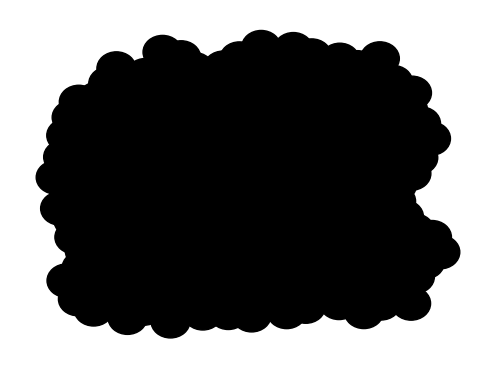
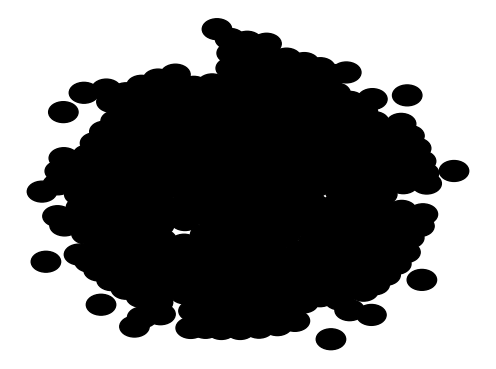
ICI MILO

diff --git a/Src/TestFolder/testTuringOptimisation.py b/Src/TestFolder/testTuringOptimisation.py
@@ -6,7 +6,7 @@ from Src.simulationController.topologyOptimizer import topologyOptimisation
 
 print("Début du test de l'extracteur des propriétés de l'essaim sur le chemin : ", os.getcwd())
 os.chdir("../..")
-S = topologyOptimisation("pile",nb=300,visible=True,time=2000)
+S = topologyOptimisation("pile",nb=100,visible=True,time=10000)
 
 
 def fitnessShapeIndex(w):
@@ -65,7 +65,16 @@ def computeOptization(func,iter):
     S.put_genotype(res[0])
     S.Swarm.controller.write_params(S.Swarm.controller.read_params())
 
-
+#pour faire de la rectanglitude, essayer avec plus de temps et des essaims plus petits
+def fitnessRectanglitude(w):
+    S.put_genotype(w)
+    S.computeSimulation()
+    S.Swarm.setRange(80)
+    #S.Swarm.shapeIndex()
+    rect = np.mean(S.Swarm.rectanglitude(seuil=0))
+    print("Pénalité de ",-rect**2)
+    #print("Précision : ",S.getPrecision())
+    return -rect**2
 
 if(__name__=="__main__"):
     w = S.extract_genotype()
@@ -74,7 +83,7 @@ if(__name__=="__main__"):
     S.computeSimulation()
     S.Swarm.calculerTuringSpots(seuil=4)
     print("Depart a : ", S.Swarm.nb_turing_spots)
-    res = cma.CMAEvolutionStrategy(w, 0.0001).optimize(fitnessTuringSpot, maxfun=500).result
+    res = cma.CMAEvolutionStrategy(w, 0.0001).optimize(fitnessRectanglitude, maxfun=500).result
     S.put_genotype(res[0])
     S.Swarm.controller.write_params(S.Swarm.controller.read_params())
 

diff --git a/Src/controllers/swarmDescriptor.py b/Src/controllers/swarmDescriptor.py
@@ -134,16 +134,20 @@ class swarmDescriptor:
         return multiClusterShapeIndex(show=False, distVoisin=self.controller.range)
 
 
-    def rectanglitude(self):
+    def rectanglitude(self, seuil = 0):
         self.clusteriser()
         topologyCalculs.fp = os.getcwd() + "/embedded_simulateurs/" + self.path + "/endstate.json"
+
+
+        """
         cpt = 0
-        C = clustersRectanglitude( distVoisin=self.controller.range)
+        C = clustersRectanglitude( distVoisin=self.controller.range, seuil = seuil)
         for i in C:
             if (len(self.clusters) > cpt):
                 self.clusters[cpt].rectanglitude = i
                 cpt = cpt + 1
-        return clustersRectanglitude(distVoisin=self.controller.range)
+        """
+        return clustersRectanglitude(distVoisin=self.controller.range, valueTresh = seuil)
 
     def SumshapeIndex(self):
 

diff --git a/embedded_simulateurs/morphogenesis/morphogenesis.c b/embedded_simulateurs/morphogenesis/morphogenesis.c
@@ -30,15 +30,15 @@ REGISTER_USERDATA(USERDATA)
 #define R2 120                  // For probabilistic purposes
 
 //Model_Parameter
-#define A_VAL 0.08000010018
-#define B_VAL -0.08007062279
-#define C_VAL 0.03010265104
-#define D_VAL 0.03016248607
-#define E_VAL 0.10003280166
-#define F_VAL 0.12015091741
-#define G_VAL 0.05985337134
-#define D_u 0.49986604166
-#define D_v 10.00000901539
+#define A_VAL 0.07972689734
+#define B_VAL -0.07995580397
+#define C_VAL 0.02975932153
+#define D_VAL 0.02937799752
+#define E_VAL 0.10017816322
+#define F_VAL 0.12010964207
+#define G_VAL 0.06038305914
+#define D_u 0.50010928442
+#define D_v 10.00020054922
 #define LINEAR_R 160.00000000000
 #define SYNTH_U_MAX 0.23000000000
 #define SYNTH_V_MAX 0.50000000000

diff --git a/Src/milolib/topologyCalculs.py b/Src/milolib/topologyCalculs.py
@@ -523,9 +523,10 @@ def clustersRectanglitude(valueTresh=0, distVoisin=100) :
             list.append(areaOfPolygon/areaOfRect)
         if len(cluster) == 3 :
             list.append(1/2)
+        """
         if len(cluster) <= 2 :
             list.append(0)
-
+        """
     return list
 
 
